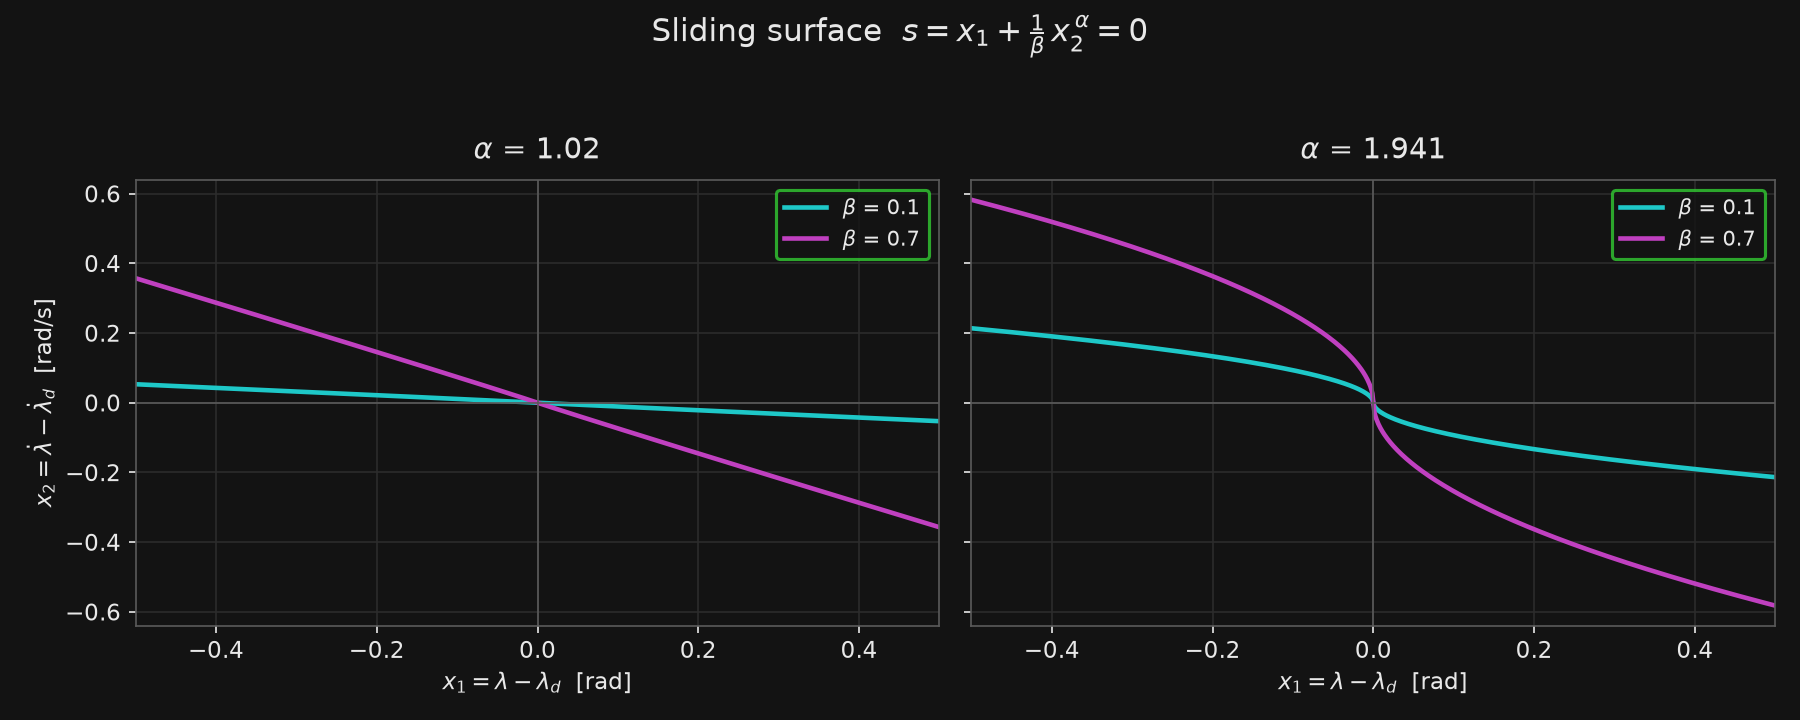
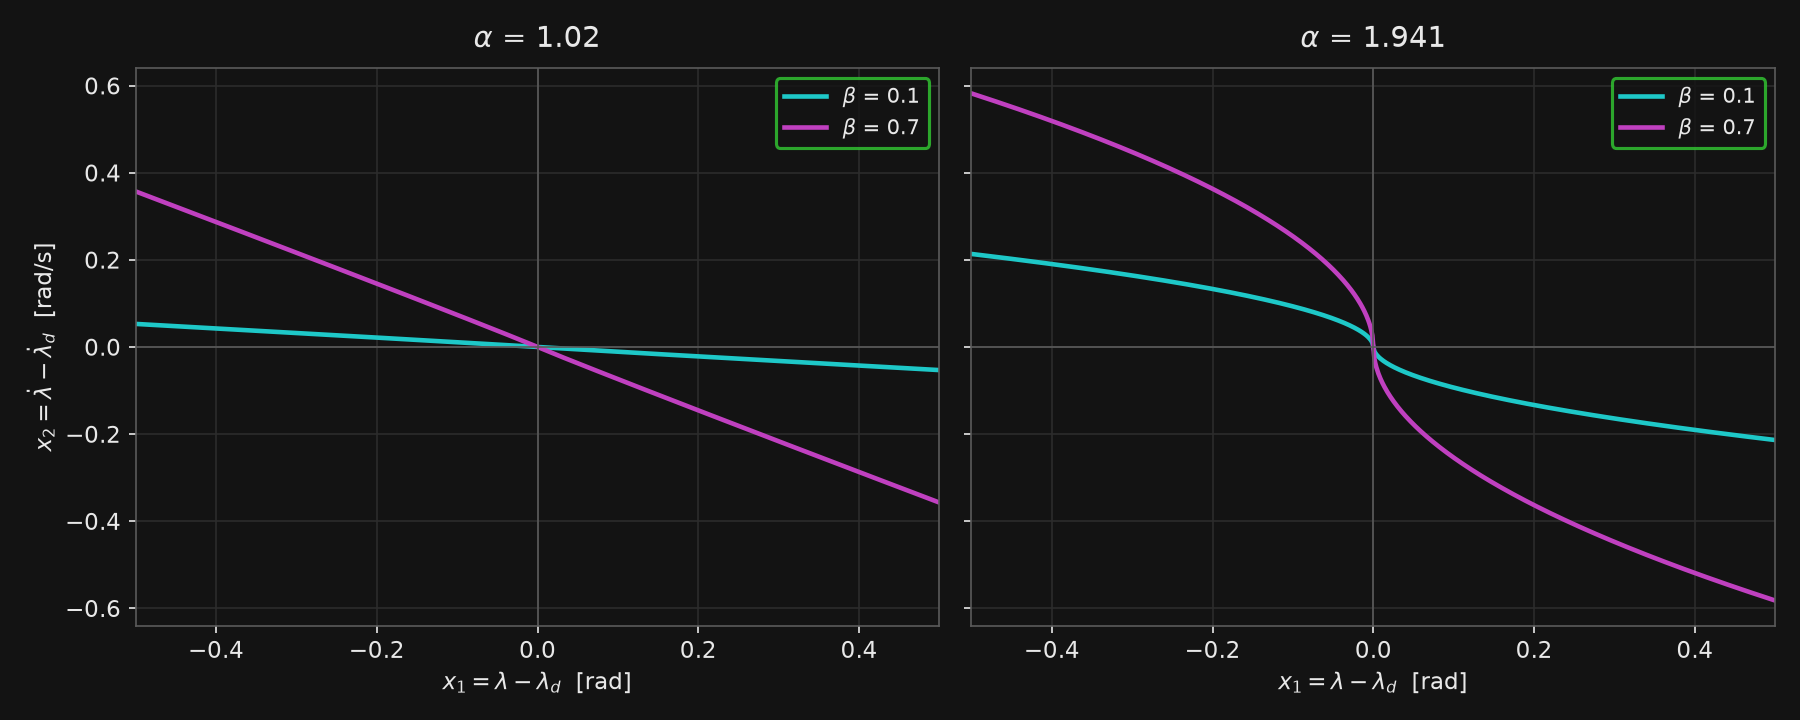
readme changed

diff --git a/docs/src/sliding_surface.py b/docs/src/sliding_surface.py
@@ -49,7 +49,6 @@ for ax, alpha in zip(axes, ALPHAS):
     legend.get_frame().set_linewidth(1.5)
 
 axes[0].set_ylabel(r"$x_2 = \dot\lambda - \dot\lambda_d$  [rad/s]")
-fig.suptitle(r"Sliding surface  $s = x_1 + \frac{1}{\beta}\,x_2^{\,\alpha} = 0$", fontsize=15, y=0.98)
-fig.tight_layout(rect=(0, 0, 1, 0.94))
+fig.tight_layout()
 fig.savefig(OUT, dpi=150)
 print(OUT)

diff --git a/README.md b/README.md
@@ -45,6 +45,7 @@ Each waypoint contains:
 
 # Controller
 As mentioned, a TSMC controller is used here with the sliding surface:
+
 $$
 s = x_1 + \frac{1}{\beta}\, x_2^{\alpha}
 $$
